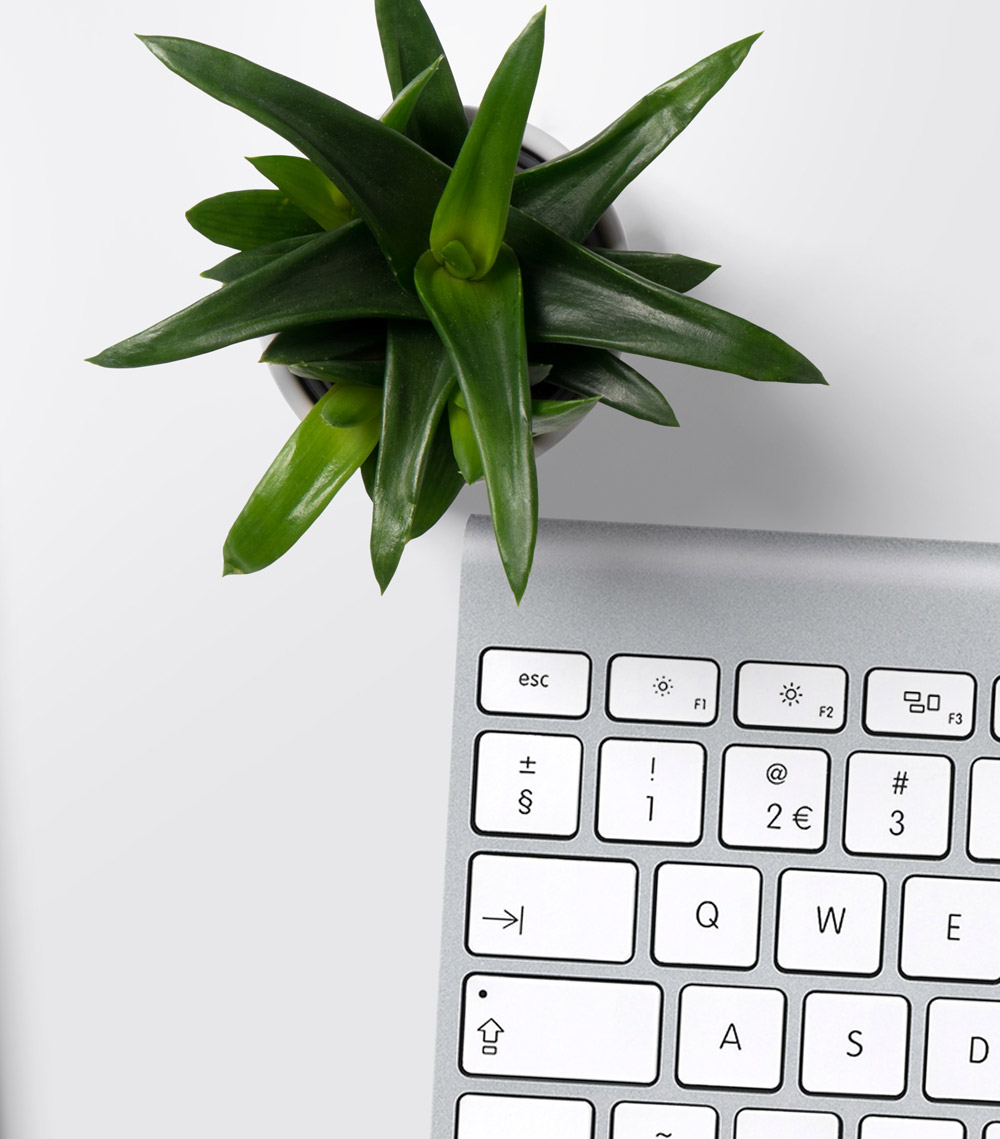
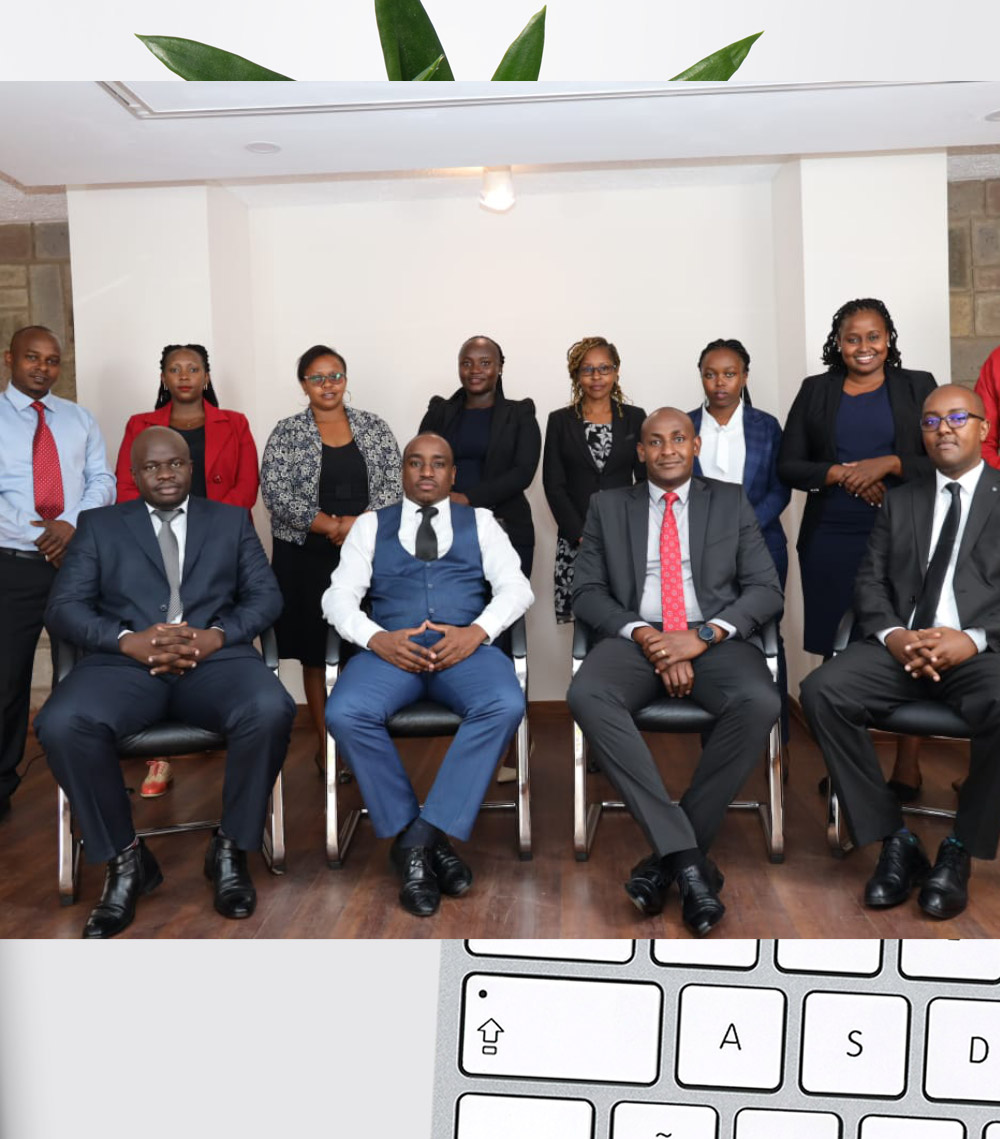
add login image

diff --git a/resources/views/auth/login.blade.php b/resources/views/auth/login.blade.php
@@ -1,7 +1,13 @@
 @extends('layouts.auth')
 
 @section('form')
-<div class="app-auth-body mx-auto">	
+@php( $loginbg = asset('auth/assets/images/background/background-1.jpg') )
+<style>
+    .app-login .auth-background-holder {
+        background: url("{{ $loginbg }}") no-repeat center center !important;
+    }
+</style>
+<div class="app-auth-body mx-auto">
     <div class="app-auth-branding mb-4">
         <a class="app-logo" href="{{ route('w.index') }}">
             <img class="logo-icon me-2" src="{{ asset('assets/images/logo-dark.png') }}" alt="logo">
@@ -9,15 +15,15 @@
     </div>
     <h2 class="auth-heading text-center mb-5">Log in to Portal</h2>
     <div class="auth-form-container text-start">
-        <form class="auth-form login-form" action="{{ route('login') }}" method="post">         
+        <form class="auth-form login-form" action="{{ route('login') }}" method="post">
             @csrf
             <div class="email mb-3">
                 <label class="sr-only" for="email">Email</label>
                 <input id="email" name="email" value="{{ old('email') }}" type="email" class="form-control signin-email @error('email') is-invalid @enderror" placeholder="Email address" required="required">
                 @error('email')
-                    <span class="invalid-feedback" role="alert">
-                        <strong>{{ $message }}</strong>
-                    </span>
+                <span class="invalid-feedback" role="alert">
+                    <strong>{{ $message }}</strong>
+                </span>
                 @enderror
             </div>
 
@@ -25,9 +31,9 @@
                 <label class="sr-only" for="password">Password</label>
                 <input id="password" name="password" type="password" class="form-control signin-password @error('password') is-invalid @enderror" placeholder="Password" required="required">
                 @error('password')
-                    <span class="invalid-feedback" role="alert">
-                        <strong>{{ $message }}</strong>
-                    </span>
+                <span class="invalid-feedback" role="alert">
+                    <strong>{{ $message }}</strong>
+                </span>
                 @enderror
 
                 <div class="extra mt-3 row justify-content-between">
@@ -35,16 +41,16 @@
                         <div class="form-check">
                             <input class="form-check-input" type="checkbox" name="remember" id="remember" {{ old('remember') ? 'checked' : '' }}>
                             <label class="form-check-label" for="RememberPassword">
-                            Remember me
+                                Remember me
                             </label>
                         </div>
                     </div>
                     <div class="col-6">
-                    @if (Route::has('password.request'))
+                        @if (Route::has('password.request'))
                         <div class="forgot-password text-end">
                             <a href="{{ route('password.request') }}">Forgot password?</a>
                         </div>
-                    @endif
+                        @endif
                     </div>
                 </div>
             </div>
@@ -53,11 +59,11 @@
                 <button type="submit" class="btn app-btn-primary w-100 theme-btn mx-auto">Log In</button>
             </div>
         </form>
-        
+
         <!-- <div class="auth-option text-center pt-5">No Account? Sign up 
             <a class="text-link" href="signup.html" >here</a>.
         </div> -->
-    </div>	
+    </div>
 
 </div>
 @endsection
